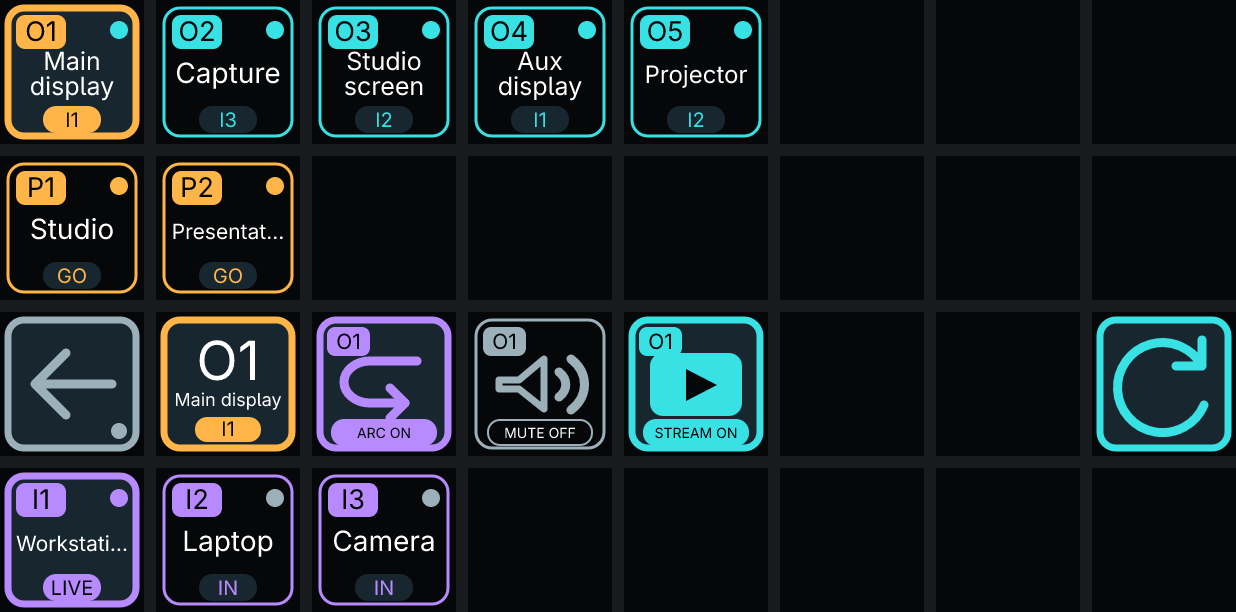
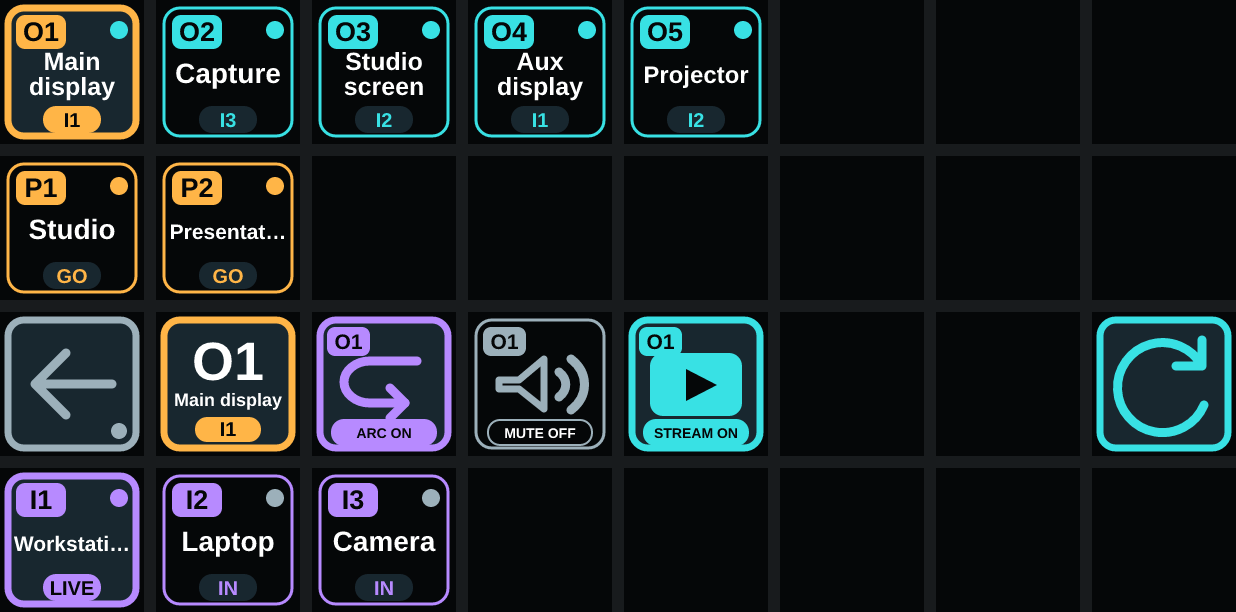
fix: make preview and Node 20 CI portable across platforms
- Render the preview with bundled Arimo instead of host fonts so the
  byte-exact check passes on macOS, Linux and Windows.
- Run pnpm 11 standalone in CI, since it needs Node 22 while the matrix
  keeps Node 20 as the tested plugin runtime.
- Expand the test glob with pnpm's shell emulator; Node 20 cannot.
- Spawn a native pnpm executable directly in the package scripts.
- Update fast-uri and brace-expansion so the high-severity audit passes.

diff --git a/scripts/generate-preview.ts b/scripts/generate-preview.ts
@@ -77,7 +77,18 @@ const cells = keys
 	.join("");
 
 const preview = `<svg xmlns="http://www.w3.org/2000/svg" width="${width}" height="${height}" viewBox="0 0 ${width} ${height}"><rect width="100%" height="100%" fill="#181B1D"/>${cells}</svg>`;
-const png = new Resvg(preview).render().asPng();
+// Host fonts differ between platforms, so render with bundled Arial-compatible Arimo for byte-identical output.
+const fonts = resolve(root, "node_modules", "@expo-google-fonts", "arimo");
+const png = new Resvg(preview, {
+	font: {
+		loadSystemFonts: false,
+		fontFiles: [resolve(fonts, "400Regular", "Arimo_400Regular.ttf"), resolve(fonts, "700Bold", "Arimo_700Bold.ttf")],
+		defaultFontFamily: "Arimo",
+		sansSerifFamily: "Arimo",
+	},
+})
+	.render()
+	.asPng();
 const output = resolve(root, "assets", "preview.png");
 if (process.argv.includes("--check")) {
 	const current = await readFile(output);

diff --git a/scripts/verify-package.ts b/scripts/verify-package.ts
@@ -142,8 +142,10 @@ export function expectedFiles(): string[] {
 
 function verifyElgatoValidator(plugin: string): void {
 	const pnpmCli = process.env.npm_execpath;
-	const command = pnpmCli ? process.execPath : process.platform === "win32" ? "pnpm.cmd" : "pnpm";
-	const prefix = pnpmCli ? [pnpmCli] : [];
+	// Standalone pnpm reports its native executable, which Node cannot load as a script.
+	const runWithNode = pnpmCli !== undefined && /\.[cm]?js$/i.test(pnpmCli);
+	const command = runWithNode ? process.execPath : (pnpmCli ?? (process.platform === "win32" ? "pnpm.cmd" : "pnpm"));
+	const prefix = runWithNode ? [pnpmCli] : [];
 	const result = spawnSync(command, [...prefix, "exec", "streamdeck", "validate", "--no-update-check", plugin], {
 		encoding: "utf8",
 	});

diff --git a/scripts/verify-reproducible.ts b/scripts/verify-reproducible.ts
@@ -6,8 +6,10 @@ import { resolve } from "node:path";
 const root = resolve(import.meta.dirname, "..");
 const archive = resolve(root, "dist/com.beastyrabbit.hdmi-matrix.streamDeckPlugin");
 const pnpmCli = process.env.npm_execpath;
-const command = pnpmCli ? process.execPath : process.platform === "win32" ? "pnpm.cmd" : "pnpm";
-const prefix = pnpmCli ? [pnpmCli] : [];
+// Standalone pnpm reports its native executable, which Node cannot load as a script.
+const runWithNode = pnpmCli !== undefined && /\.[cm]?js$/i.test(pnpmCli);
+const command = runWithNode ? process.execPath : (pnpmCli ?? (process.platform === "win32" ? "pnpm.cmd" : "pnpm"));
+const prefix = runWithNode ? [pnpmCli] : [];
 
 const first = await buildAndHash();
 const second = await buildAndHash();

diff --git a/CONTRIBUTING.md b/CONTRIBUTING.md
@@ -4,7 +4,7 @@ Small, focused fixes and compatibility reports are welcome. Open an issue before
 
 ## Development
 
-Use Node.js 20 or newer and pnpm 11.3.0.
+Use pnpm 11.3.0. It needs Node.js 22.13 or newer unless you install its standalone build. The plugin and setup script themselves run on Node.js 20 or newer.
 
 ```bash
 pnpm install --frozen-lockfile
